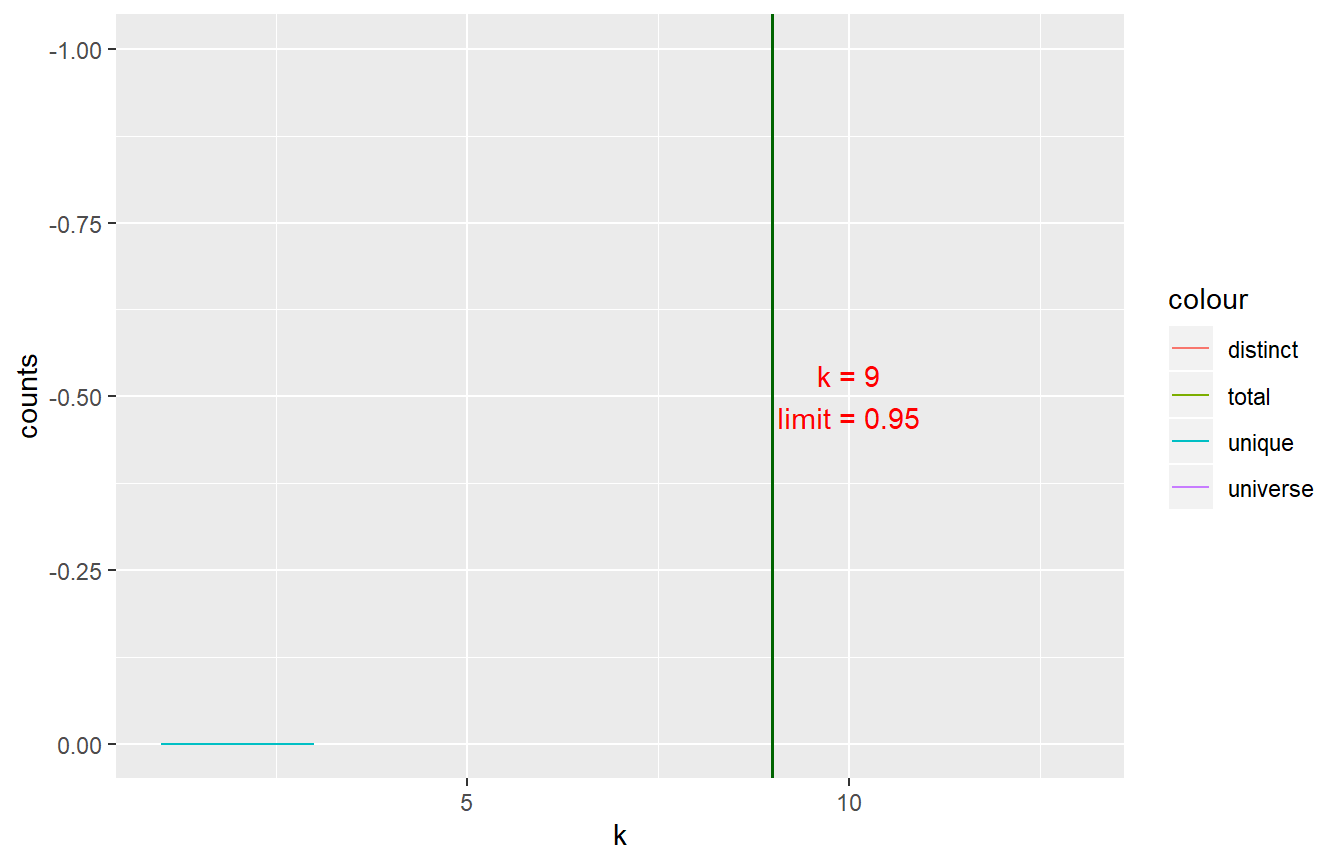
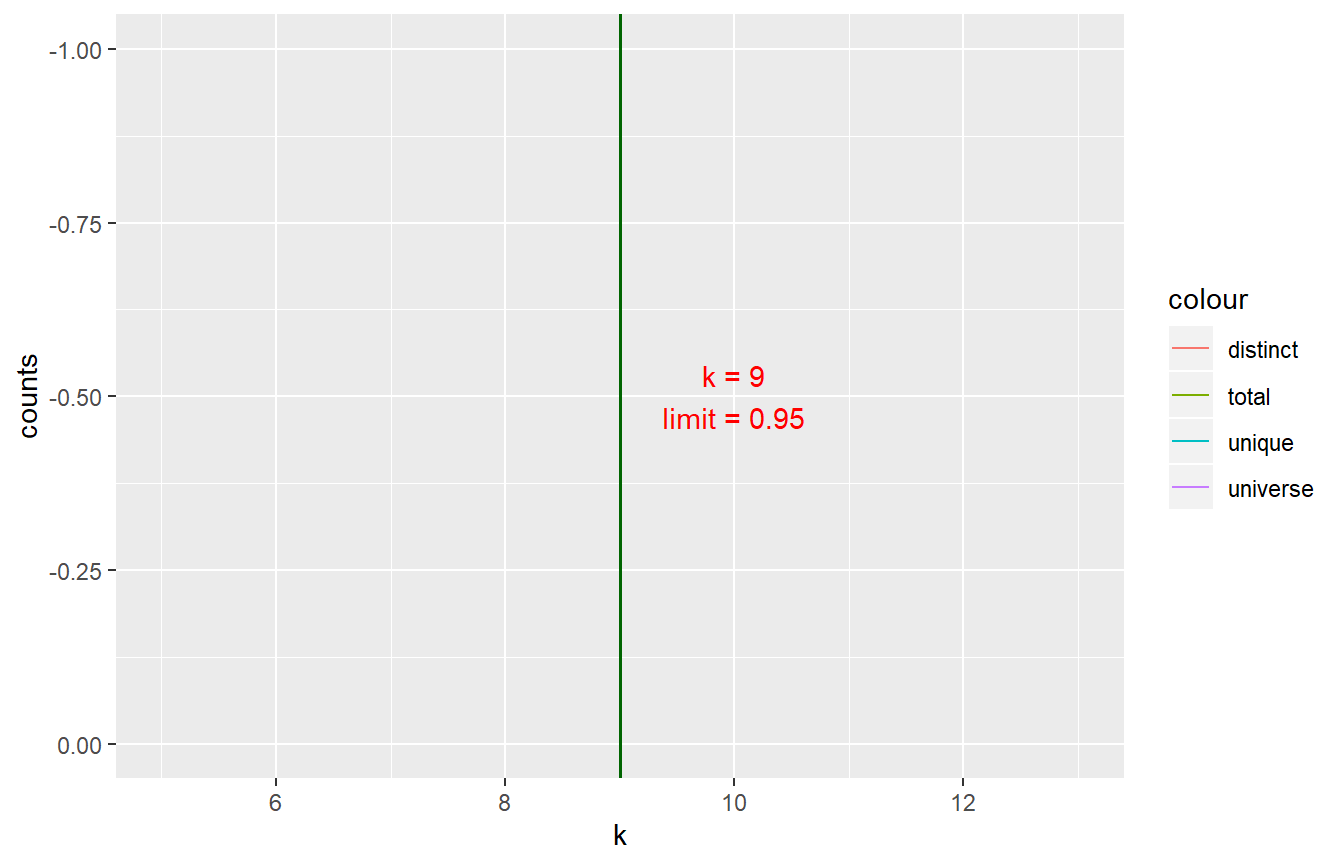
adding tutorials

diff --git a/docs/reference/kmr_map_kmers.html b/docs/reference/kmr_map_kmers.html
@@ -6,7 +6,7 @@
 <meta http-equiv="X-UA-Compatible" content="IE=edge">
 <meta name="viewport" content="width=device-width, initial-scale=1.0">
 
-<title>Page not found (404) • kmerize</title>
+<title>kmr_map_kmers — kmr_map_kmers • kmerize</title>
 
 
 <!-- jquery -->
@@ -29,13 +29,15 @@
 <script src="https://cdnjs.cloudflare.com/ajax/libs/headroom/0.9.4/jQuery.headroom.min.js" integrity="sha256-ZX/yNShbjqsohH1k95liqY9Gd8uOiE1S4vZc+9KQ1K4=" crossorigin="anonymous"></script>
 
 <!-- pkgdown -->
-<link href="pkgdown.css" rel="stylesheet">
-<script src="pkgdown.js"></script>
+<link href="../pkgdown.css" rel="stylesheet">
+<script src="../pkgdown.js"></script>
 
 
 
 
-<meta property="og:title" content="Page not found (404)" />
+<meta property="og:title" content="kmr_map_kmers — kmr_map_kmers" />
+<meta property="og:description" content="kmr_map_kmers" />
+<meta name="twitter:card" content="summary" />
 
 
 
@@ -54,7 +56,7 @@
   </head>
 
   <body>
-    <div class="container template-title-body">
+    <div class="container template-reference-topic">
       <header>
       <div class="navbar navbar-default navbar-fixed-top" role="navigation">
   <div class="container">
@@ -66,7 +68,7 @@
         <span class="icon-bar"></span>
       </button>
       <span class="navbar-brand">
-        <a class="navbar-link" href="index.html">kmerize</a>
+        <a class="navbar-link" href="../index.html">kmerize</a>
         <span class="version label label-default" data-toggle="tooltip" data-placement="bottom" title="Released version">0.1.0</span>
       </span>
     </div>
@@ -74,13 +76,13 @@
     <div id="navbar" class="navbar-collapse collapse">
       <ul class="nav navbar-nav">
         <li>
-  <a href="index.html">
+  <a href="../index.html">
     <span class="fas fa fas fa-home fa-lg"></span>
      
   </a>
 </li>
 <li>
-  <a href="reference/index.html">Reference</a>
+  <a href="../reference/index.html">Reference</a>
 </li>
 <li class="dropdown">
   <a href="#" class="dropdown-toggle" data-toggle="dropdown" role="button" aria-expanded="false">
@@ -90,7 +92,7 @@
   </a>
   <ul class="dropdown-menu" role="menu">
     <li>
-      <a href="articles/Tutorial_install.html">Tutorial_install</a>
+      <a href="../articles/Tutorial_install.html">Tutorial_install</a>
     </li>
   </ul>
 </li>
@@ -108,17 +110,50 @@
       </header>
 
 <div class="row">
-  <div class="contents col-md-9">
+  <div class="col-md-9 contents">
     <div class="page-header">
-      <h1>Page not found (404)</h1>
+    <h1>kmr_map_kmers</h1>
+    
+    <div class="hidden name"><code>kmr_map_kmers.Rd</code></div>
     </div>
 
-Content not found. Please use links in the navbar.
+    <div class="ref-description">
+    <p>kmr_map_kmers</p>
+    </div>
+
+    <pre class="usage"><span class='fu'>kmr_map_kmers</span>(<span class='no'>k</span>, <span class='no'>genome</span>, <span class='kw'>seqname</span> <span class='kw'>=</span> <span class='st'>"phix"</span>)</pre>
+
+    <h2 class="hasAnchor" id="arguments"><a class="anchor" href="#arguments"></a>Arguments</h2>
+    <table class="ref-arguments">
+    <colgroup><col class="name" /><col class="desc" /></colgroup>
+    <tr>
+      <th>genome</th>
+      <td><p>a fasta sequence</p></td>
+    </tr>
+    <tr>
+      <th>seqname</th>
+      <td><p>name of the sequence</p></td>
+    </tr>
+    <tr>
+      <th>kmers</th>
+      <td><p>kmer table</p></td>
+    </tr>
+    </table>
+
+    <h2 class="hasAnchor" id="value"><a class="anchor" href="#value"></a>Value</h2>
+
+    <p>GRange object of mapped kmers</p>
 
   </div>
+  <div class="col-md-3 hidden-xs hidden-sm" id="sidebar">
+    <h2>Contents</h2>
+    <ul class="nav nav-pills nav-stacked">
+      <li><a href="#arguments">Arguments</a></li>
+      <li><a href="#value">Value</a></li>
+    </ul>
 
+  </div>
 </div>
-
 
 
       <footer>

diff --git a/docs/articles/Tutorial_Basics.html b/docs/articles/Tutorial_Basics.html
@@ -59,6 +59,9 @@
     <li>
       <a href="../articles/Tutorial_install.html">Tutorial_install</a>
     </li>
+    <li>
+      <a href="../articles/Tutorial_potato_1.html">Tutorial_potato_1</a>
+    </li>
   </ul>
 </li>
       </ul>
@@ -86,7 +89,8 @@
     
     
 <div class="sourceCode" id="cb1"><pre class="sourceCode r"><code class="sourceCode r"><span id="cb1-1"><a href="#cb1-1"></a><span class="kw"><a href="https://rdrr.io/r/base/library.html">library</a></span>(kmerize)</span>
-<span id="cb1-2"><a href="#cb1-2"></a><span class="kw"><a href="https://rdrr.io/r/base/library.html">library</a></span>(ggplot2)</span></code></pre></div>
+<span id="cb1-2"><a href="#cb1-2"></a><span class="kw"><a href="https://rdrr.io/r/base/library.html">library</a></span>(ggplot2)</span>
+<span id="cb1-3"><a href="#cb1-3"></a><span class="kw"><a href="https://rdrr.io/r/base/library.html">library</a></span>(magrittr)</span></code></pre></div>
 <div id="what-are-k-mers" class="section level2">
 <h2 class="hasAnchor">
 <a href="#what-are-k-mers" class="anchor"></a>What Are K-mers?</h2>
@@ -108,15 +112,13 @@
 <h3 class="hasAnchor">
 <a href="#genomic-response-of-phi-x-174" class="anchor"></a>Genomic Response of Phi x 174</h3>
 <p>This package contains the full sequende of PhiX174 from NCBI.</p>
-<p>These k values are: 1, 3, 5, 7, 9, 11, 13, 15, 17, 19, 21.</p>
+<p>These k values are: 5, 7, 9, 11, 13, 15, 17, 19, 21.</p>
 <p>The convenience method for the genomic response returns a summary table. This includes also the theoretical maximum number of k-mers (the k-mer universe) for each value of k.</p>
 <div class="sourceCode" id="cb2"><pre class="sourceCode r"><code class="sourceCode r"><span id="cb2-1"><a href="#cb2-1"></a>phix_response &lt;-<span class="st"> </span><span class="kw"><a href="../reference/kmr_response.html">kmr_response</a></span>(fa, k)</span>
-<span id="cb2-2"><a href="#cb2-2"></a><span class="co">#&gt; 3</span></span>
-<span id="cb2-3"><a href="#cb2-3"></a><span class="co">#&gt; 5</span></span>
-<span id="cb2-4"><a href="#cb2-4"></a><span class="co">#&gt; 7</span></span>
-<span id="cb2-5"><a href="#cb2-5"></a><span class="co">#&gt; 9</span></span>
-<span id="cb2-6"><a href="#cb2-6"></a><span class="co">#&gt; 11</span></span>
-<span id="cb2-7"><a href="#cb2-7"></a><span class="co">#&gt; 13</span></span></code></pre></div>
+<span id="cb2-2"><a href="#cb2-2"></a><span class="co">#&gt; 7</span></span>
+<span id="cb2-3"><a href="#cb2-3"></a><span class="co">#&gt; 9</span></span>
+<span id="cb2-4"><a href="#cb2-4"></a><span class="co">#&gt; 11</span></span>
+<span id="cb2-5"><a href="#cb2-5"></a><span class="co">#&gt; 13</span></span></code></pre></div>
 <p>The resulting table shows only values up to 13. This is because currently, it stops once the number of unique k-mers equals (exactly more than .9999) the distinct k-mers. This means, at and after this k value all k-mers have become unique.</p>
 <div class="sourceCode" id="cb3"><pre class="sourceCode r"><code class="sourceCode r"><span id="cb3-1"><a href="#cb3-1"></a>knitr<span class="op">::</span><span class="kw"><a href="https://rdrr.io/pkg/knitr/man/kable.html">kable</a></span>(phix_response)</span></code></pre></div>
 <table class="table">
@@ -128,20 +130,6 @@
 <th align="right">universe</th>
 </tr></thead>
 <tbody>
-<tr class="odd">
-<td align="right">1</td>
-<td align="right">0</td>
-<td align="right">2</td>
-<td align="right">510</td>
-<td align="right">2</td>
-</tr>
-<tr class="even">
-<td align="right">3</td>
-<td align="right">0</td>
-<td align="right">32</td>
-<td align="right">5328</td>
-<td align="right">32</td>
-</tr>
 <tr class="odd">
 <td align="right">5</td>
 <td align="right">10</td>

diff --git a/docs/notes.html b/docs/notes.html
@@ -90,9 +90,6 @@
   </a>
   <ul class="dropdown-menu" role="menu">
     <li>
-      <a href="articles/Tutorial_Basics.html">Tutorial_Basics</a>
-    </li>
-    <li>
       <a href="articles/Tutorial_install.html">Tutorial_install</a>
     </li>
   </ul>
@@ -138,12 +135,19 @@
 <li><p>prefilitering with shortreads being strict on quality and information content</p></li>
 <li><p>deduplicate</p></li>
 <li><p>subsample only up to a total of 10 Mio per genotype!</p></li>
+<li>
+<p>or consider removing the 95% most common kmers!</p>
+<ul>
+<li>check on</li>
+</ul>
+</li>
 <li><p>prepare some examples for potato on spark!</p></li>
 <li><p>map kmers</p></li>
 <li><p>screen kmers for min k</p></li>
 <li><p>add f guess to kmer count</p></li>
 <li><p>add file directory as input to kmer count</p></li>
-<li><p>add plot functions for kmers</p></li>
+<li><p>add map plot functions for kmers</p></li>
+<li><p>a spectra plot functions</p></li>
 <li><p>evaluate effect of indels! can it detect?</p></li>
 <li><p>convenience function get kmer table from database</p></li>
 <li><p>rmd website for tutorials!</p></li>

diff --git a/docs/reference/index.html b/docs/reference/index.html
@@ -90,9 +90,6 @@
   </a>
   <ul class="dropdown-menu" role="menu">
     <li>
-      <a href="../articles/Tutorial_Basics.html">Tutorial_Basics</a>
-    </li>
-    <li>
       <a href="../articles/Tutorial_install.html">Tutorial_install</a>
     </li>
   </ul>
@@ -155,6 +152,12 @@
           <p><code><a href="kmr_install_kmc.html">kmr_install_kmc()</a></code> </p>
         </td>
         <td><p>kmr_install_kmc</p></td>
+      </tr><tr>
+        
+        <td>
+          <p><code><a href="kmr_map_kmers.html">kmr_map_kmers()</a></code> </p>
+        </td>
+        <td><p>kmr_map_kmers</p></td>
       </tr><tr>
         
         <td>

diff --git a/docs/articles/index.html b/docs/articles/index.html
@@ -90,9 +90,6 @@
   </a>
   <ul class="dropdown-menu" role="menu">
     <li>
-      <a href="../articles/Tutorial_Basics.html">Tutorial_Basics</a>
-    </li>
-    <li>
       <a href="../articles/Tutorial_install.html">Tutorial_install</a>
     </li>
   </ul>
@@ -121,7 +118,6 @@
       <p class="section-desc"></p>
 
       <ul>
-        <li><a href="Tutorial_Basics.html">Tutorial_Basics</a></li>
         <li><a href="Tutorial_install.html">Tutorial_install</a></li>
       </ul>
     </div>

diff --git a/docs/reference/kmr_response.html b/docs/reference/kmr_response.html
@@ -94,9 +94,6 @@ This parameter will be inferred from the file name, if not set." />
   </a>
   <ul class="dropdown-menu" role="menu">
     <li>
-      <a href="../articles/Tutorial_Basics.html">Tutorial_Basics</a>
-    </li>
-    <li>
       <a href="../articles/Tutorial_install.html">Tutorial_install</a>
     </li>
   </ul>

diff --git a/docs/reference/kmr_calc_k_limit.html b/docs/reference/kmr_calc_k_limit.html
@@ -92,9 +92,6 @@
   </a>
   <ul class="dropdown-menu" role="menu">
     <li>
-      <a href="../articles/Tutorial_Basics.html">Tutorial_Basics</a>
-    </li>
-    <li>
       <a href="../articles/Tutorial_install.html">Tutorial_install</a>
     </li>
   </ul>

diff --git a/docs/reference/kmr_compare.html b/docs/reference/kmr_compare.html
@@ -92,9 +92,6 @@
   </a>
   <ul class="dropdown-menu" role="menu">
     <li>
-      <a href="../articles/Tutorial_Basics.html">Tutorial_Basics</a>
-    </li>
-    <li>
       <a href="../articles/Tutorial_install.html">Tutorial_install</a>
     </li>
   </ul>

diff --git a/docs/reference/kmr_count.html b/docs/reference/kmr_count.html
@@ -92,9 +92,6 @@
   </a>
   <ul class="dropdown-menu" role="menu">
     <li>
-      <a href="../articles/Tutorial_Basics.html">Tutorial_Basics</a>
-    </li>
-    <li>
       <a href="../articles/Tutorial_install.html">Tutorial_install</a>
     </li>
   </ul>

diff --git a/docs/reference/kmr_install_kmc.html b/docs/reference/kmr_install_kmc.html
@@ -92,9 +92,6 @@
   </a>
   <ul class="dropdown-menu" role="menu">
     <li>
-      <a href="../articles/Tutorial_Basics.html">Tutorial_Basics</a>
-    </li>
-    <li>
       <a href="../articles/Tutorial_install.html">Tutorial_install</a>
     </li>
   </ul>

diff --git a/docs/reference/kmr_plot_response.html b/docs/reference/kmr_plot_response.html
@@ -92,9 +92,6 @@
   </a>
   <ul class="dropdown-menu" role="menu">
     <li>
-      <a href="../articles/Tutorial_Basics.html">Tutorial_Basics</a>
-    </li>
-    <li>
       <a href="../articles/Tutorial_install.html">Tutorial_install</a>
     </li>
   </ul>

diff --git a/docs/reference/kmr_read_parquet.html b/docs/reference/kmr_read_parquet.html
@@ -92,9 +92,6 @@
   </a>
   <ul class="dropdown-menu" role="menu">
     <li>
-      <a href="../articles/Tutorial_Basics.html">Tutorial_Basics</a>
-    </li>
-    <li>
       <a href="../articles/Tutorial_install.html">Tutorial_install</a>
     </li>
   </ul>
